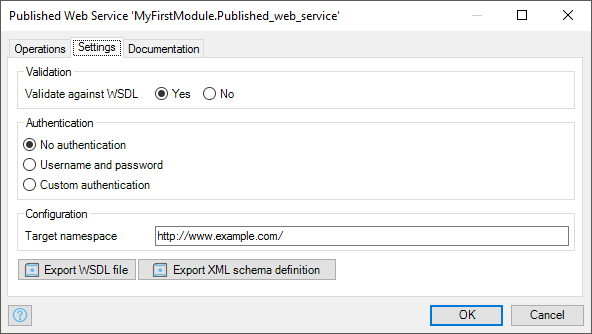
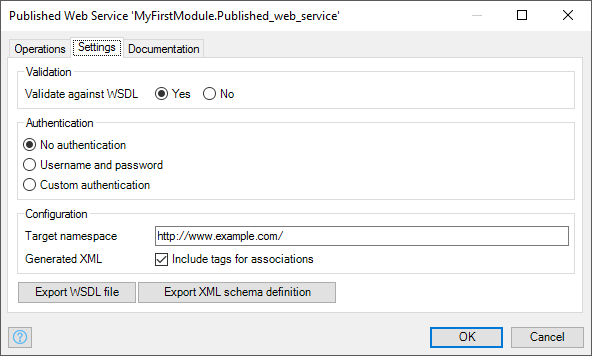
Integration features for release 7.13 (#1067)
* Binary request and response to published REST operation

* Active session authentication in REST publish

* Optimized XML in published web services

* Clickable location in REST publish

* Added HEAD and OPTIONS HTTP verbs in REST publish and consume

* Update call-rest-action.md

* Update call-rest-action.md

* Update open-api.md

* Update published-rest-operation.md

* Update published-rest-operation.md

* Update published-rest-service.md

* Update published-rest-service.md

* Update published-web-service.md

* Added body parameter to parameters section in published rest operation.

* Rephrased

diff --git a/content/refguide/published-rest-operation.md b/content/refguide/published-rest-operation.md
@@ -24,6 +24,8 @@ The method specifies what type of operation is performed by the microflow:
 * `POST` – the operation creates an entry in the collection at the specified location
 * `PATCH` – the operations updates (part of) the entry at the specified location
 * `DELETE` – the operation deletes the entry or entries at the specified location
+* `HEAD` – the operation retrieves information about the entry or entries at the specified location; this is identical to `GET`, except for the fact that it doesn't return a message body
+* `OPTIONS` – the operation returns information about the available communication options
 
 ### <a name="operation-path"></a>2.2 Operation Path
 
@@ -41,20 +43,37 @@ The example location gives an example of a URL on which the operation can be rea
 
 ### 2.4 Microflow
 
-Specify the microflow that implements the operation. These are the characteristics of a valid microflow for a REST operation:
+{{% alert type="info" %}}
 
-* It returns an [HttpResponse](http-request-and-response-entities#http-response) object that is not **empty** or any primitive value except binary (such as String, Decimal, Enumeration, etc.).
-* It may have an [HttpRequest](http-request-and-response-entities#http-request) parameter, which you can use to inspect the incoming request
-* It may have an [HttpResponse](http-request-and-response-entities#http-request) parameter, which you can use to modify the response
-* It can have [HttpResponse](http-request-and-response-entities#http-request) either as a return type or as a parameter (but not as both)
-* It takes all the [path parameters](published-rest-path-parameters) specified in the operation path as parameters
-* It should not have any other **Object** or **List** parameters
-* If a microflow returns **empty** or if it has a return type of **Nothing**, you can set the response content through the [HttpResponse](http-request-and-response-entities#http-request) parameter; in any other case, the returned value is used for the response content
-* It allows all roles that the service allows
+Support for **File Documents** in these microflows was introduced in version 7.13.0.
 
-Any remaining microflow parameters will be treated as optional [query parameters](published-rest-query-parameters).
+{{% /alert %}}
+
+An operation has different parameters:
+
+ * [Path parameters](published-rest-path-parameters), which are part of the path of the URL
+ * Query parameters, which are at the end of the URL in the form of `?name1=value1&name2=value2` (when a microflow parameter is not in the path and is not object, then it's considered a query parameter)
+ * A body parameter (optional), which are in the body of the request to the operation (the `GET`, `HEAD`, and `DELETE` operations do not have a body parameter)
+
+A microflow for an operation takes all these operation parameters as input.
+
+A body parameter should be a file document (or inherit from a file document).
+
+Path and query parameters can't have list or object types.
+
+An operation microflow can also take an [HttpRequest](http-request-and-response-entities#http-request) parameter. You can add this parameter if you would like to inspect the requested URL and headers.
+
+The result of the microflow is the result of the operation. You have several options here, which are described below.
+
+The first option is to **return an [HttpResponse](http-request-and-response-entities#http-response)**. In the *HttpResponse*, you can set the status code, reason phrase, and content (as a string). You can fill the content with, for example, the result of a mapping or a string from another source. You can also add headers to the response. One important header to set is *Content-Type*. Do not return an *empty* HttpResponse, because that will always result in an error.
+
+The second option is to **return a primitive**. When your microflow returns a string, integer, Boolean, etc., then the response to the operation will be that value. In order to still be able to set a status code, reason phrase, and headers, you should add an [HttpResponse](http-request-and-response-entities#http-response) object parameter and set the attributes of that object. If you return a non-empty value from the microflow, the `Content` attribute of the `HttpResponse` object is ignored. If you return an empty value from the microflow, then the `Content` of the `HttpResponse` is taken as the result.
+
+The final option is to **return a file document**. When you want to return data that is a file (such as a PDF or image), then you can have your microflow return a file document. In this case, you should also have an `HttpResponse` parameter and set the `Content-Type` header.
 
 If the microflow throws an unhandled exception, the response is **500: Internal server error**.
+
+If security is enabled, then then microflow needs to have at least one role configured to be accessible.
 
 ### 2.5 Allowed Roles
 
@@ -82,7 +101,7 @@ This feature was introduced in version 7.12.0.
 
 The **Parameters** table shows the name, data type, and type of the parameter.
 
-Operation parameters can be either query parameters or path parameters. The type of a parameter is detemined by where in the URL it is placed. If the parameter is part of the operations location, it will be of the path type. If it is a part of the operation's query string, it will be of the query type.
+An operation parameter can be either a query parameter, a path parameter or a body parameter. Path and the query parameters are detemined by their placement in the URL. If the parameter is part of the operation's location, it is a path parameter. If it is a part of the operation's query string, it is a query parameter. A body parameter comes from the body of the request.
 
 The parameter data type is determined by the microflow of the operation. New parameters that are not yet part of the microflow will have "(Not set)" as their data type.
 

diff --git a/content/refguide/published-rest-service.md b/content/refguide/published-rest-service.md
@@ -55,7 +55,7 @@ http//localhost:8080/rest/my_service_name/v1
 
 You can change the the default location to almost any valid URL.
 
-#### 2.3.1 Reserved prefixes
+#### 2.3.1 Reserved Prefixes
 
 Following URL prefixes are reserved and are not allowed to be used in location:
 
@@ -69,8 +69,11 @@ Following URL prefixes are reserved and are not allowed to be used in location:
 * `p/`
 * `reload/`
 
+When your application is running, you can click the location to open the [interactive documentation page](published-rest-services#interactive-documentation).
+
 <a name="public-documentation"></a>
-### 2.4 Public Documentation
+
+### 2.3 Public Documentation
 
 The public documentation is used in the service's [OpenAPI 2.0 (Swagger) Documentation](open-api). You can use [GitHub-flavored markdown](gfm-syntax) for rich text.
 
@@ -84,24 +87,40 @@ When the app is running, this file is available under `/rest-doc/servicename/swa
 ## 3 Security
 
 <a name="authentication"></a>
-
-### 3.1 Authentication
+### 3.1 Requires Authentication
 
 {{% alert type="info" %}}
 
-The **Authentication** feature was introduced in version 7.11.0. In earlier versions, it was always **Username and password**.
+The **No Authentication** feature was introduced in version 7.11.0. In earlier versions, it was always **Username and password**.
+
+The **Active Session** authentication was introduced in version 7.13.0
 
 {{% /alert %}}
 
-Select whether clients need to authenticate with a username and a password (using basic authentication) or not.
+Select whether clients need to authenticate or not.
 
-### 3.2 Allowed Roles
+### 3.2 Authentication Methods
 
-The allowed roles define which [module role](module-role) a user must have to be able to access the service. This option is only available when **Authentication** is set to **Username and password**.
+If authentication is required, you can select which authentication methods you would like to support
+
+* Select **Username and password** to allow clients to authenticate themselves using a username and a password in the **Authorization** header (this is called "basic authentication")
+* Select **Active session** to allow access from JavaScript inside your current application
+  * Once a user has logged into the browser, the JavaScript in your app can access the REST service using the current user's session
+  * To prevent cross-site request forgery, the `X-Csrf-Token` header needs to be set on each request, for example:
+
+    ```var xmlHttp = new XMLHttpRequest();
+    xmlHttp.open("GET", "http://mysite/rest/myservice/myresource", false);
+    xmlHttp.setRequestHeader("X-Csrf-Token", mx.session.getConfig("csrftoken"));
+    xmlHttp.send(null);
+    ```
+
+### 3.3 Allowed Roles
+
+The allowed roles define which [module role](module-role) a user must have to be able to access the service. This option is only available when **Requires authentication** is set to **Yes**.
 
 ## 4 Resources
 
-A REST service exposes a number of [resources](published-rest-resource). On a resource you can define GET, PUT, POST, PATCH, and DELETE operations.
+A REST service exposes a number of [resources](published-rest-resource). On a resource you can define GET, PUT, POST, PATCH, DELETE, HEAD and OPTIONS operations.
 
 ## 5 Operations
 

diff --git a/content/refguide/published-web-service.md b/content/refguide/published-web-service.md
@@ -1,16 +1,13 @@
 ---
-title: "Published web service"
+title: "Published Web Service"
 parent: "published-web-services"
 ---
 
+## 1 Introduction
 
-{{% alert type="warning" %}}
+This document describes the properties of a published web service. If you want a general overview of how Mendix publishes microflows as web services, see [Published Web Services](published-web-services).
 
-This document describes the properties of a published web service. If you want a general overview of how Mendix publishes microflows as web services, you can check the [Published Web Services](published-web-services) overview documentation.
-
-{{% /alert %}}
-
-## Operations
+## 2 Operations
 
 ![](attachments/16713702/16843888.png)
 
@@ -18,11 +15,11 @@ Provide the actual operations of which the web service is composed. Each of thes
 
 See [Operations](operations).
 
-## Settings
+## 3 Settings
 
 ![](attachments/16713702/16843887.png)
 
-### Validate against WSDL
+### 3.1 Validate Against WSDL
 
 If set to 'yes', incoming requests will be validated against the WSDL.
 
@@ -30,20 +27,54 @@ Note that when this property was introduced in Mendix 5.8.0, behavior changed sl
 
 _Default value:_ Yes
 
-### Authentication
+### 3.2 Authentication
 
 The authentication settings to define for communicating with the web service.
 
-### Target namespace
+### 3.3 Target Namespace
 
 This is the value of the targetNamespace attribute in the published WSDL file for this service. In Mendix, a target namespace must be a valid Uniform Resource Identifier (URI). For more information on XML namespaces, see [Wikipedia](http://en.wikipedia.org/wiki/XML_namespace).
 
 It is important to correctly configure the target namespace before publishing your WSDL to third parties. Changing it later might break the third-party applications that call your published web services.
 
-### Export WSDL file & Export XML schema definition
+### 3.4 Generated XML
+
+{{% alert type="info" %}}
+
+The **Generated XML** feature was introduced in version 7.13.0.
+
+{{% /alert %}}
+
+Select **Include tags for associations** if you need to include tags for associations in XML. This is usually not necessary, and support for this will be removed in a future version.
+
+To see the effect of this check box, consider a person with two dogs and a cat. When you do not select **Include tags for associations**, the XML looks like this:
+
+```xml
+<Person name="John">
+  <Dog name="Max" />
+  <Dog name="Rex" />
+  <Cat name="Chester" />
+</Person>
+```
+
+When you do check **Include tags for associations**, the XML looks like this:
+
+```xml
+<Person name="John">
+  <Person_Dog>
+    <Dog name="Max" />
+    <Dog name="Rex" />
+  </Person_Dog>
+  <Person_Cat>
+    <Cat name="Chester" />
+  </Person_Cat> 
+</Person>
+```
+
+### 3.5 Export WSDL File & Export XML Schema Definition
 
 By using this button, you can save the generated WSDL file, and its XML schema definition on your local hard drive. You can do this already before running your project, unlike when you download it from `http://localhost:8080/ws-doc/` .
 
-### Documentation
+### 3.6 Documentation
 
-Can be used to describe what the web service is used for.
+Documentation can be used to describe what the web service is used for.

diff --git a/content/refguide/call-rest-action.md b/content/refguide/call-rest-action.md
@@ -19,7 +19,7 @@ The Call REST Service action can be used to call a REST endpoint. You can specif
 
 The **Location** property defines the REST endpoint to be called. The location needs to be entered using a string template. The string template should result in a valid URL string. Parameters can be used by writing a number between braces (for example, `{1}`). For each parameter in the template, you can specify its value using a [microflow expression](expressions) resulting in a string value. To escape the opening brace (`{`), a double opening brace should be used (`{{`).
 
-The **HTTP method** property defines the HTTP method to use when calling a REST endpoint. The possible values are: GET, POST, PUT, PATCH, DELETE.
+The **HTTP method** property defines the HTTP method to use when calling a REST endpoint. The possible values are: GET, POST, PUT, PATCH, DELETE, HEAD, and OPTIONS.
 
 ### 2.2 Timeout
 
@@ -46,7 +46,7 @@ These headers are added to the HTTP request header. Each custom header is a pair
 
 ![](attachments/19203256/19399114.png)
 
-The sections below describe the options in the drop-down menu for generating the request. Requests can only be generated for HTTP methods POST, PUT, and PATCH.
+The sections below describe the options in the drop-down menu for generating the request. Requests can only be generated for HTTP methods POST, PUT, PATCH, and OPTIONS.
 
 ### 4.1 Export Mapping for the Entire Request
 

diff --git a/content/refguide/open-api.md b/content/refguide/open-api.md
@@ -51,5 +51,5 @@ Each operation generates an `Operation` object:
 | `tags` | The [name](published-rest-resource#name) of the resource. |
 | `summary` | The [public documentation summary](published-rest-operation#summary) of the operation. |
 | `description` | The [public documentation description](published-rest-operation#description) of the operation. |
-| `parameters` | The path and query parameters. For the POST, PUT, and PATCH methods, this is also a body parameter. |
+| `parameters` | The path and query parameters. For the POST, PUT, PATCH, and OPTIONS methods, there is also a body parameter. |
 | `responses` | The OK response. If security is enabled, this is also the unauthorized response. |
